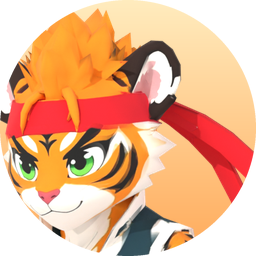
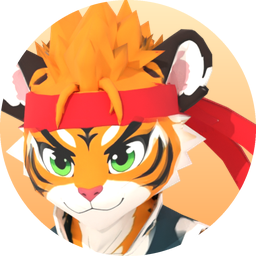
HUD: centred portrait, thin gold ring, capsule bars on a soft plate
Raja's badge re-rendered facing the camera more and cropped to his whole
face (it showed half of it), in a thin gold ring with a dark edge. The
bars are true capsules (a thin dark edge, a white rim, a dark track, a
round-ended fill with a shine along its top) whose fill shortens instead
of squashing; a soft dark plate behind the name and bars.

Claude-Session: https://claude.ai/code/session_01K37uY7EN2xbFgihJKgCj46

diff --git a/Assets/Scripts/Cloudborne/CbHud.cs b/Assets/Scripts/Cloudborne/CbHud.cs
@@ -87,18 +87,21 @@ namespace Cloudborne
             // a round badge with Raja's face (rendered from his model; drawn in code if it's missing), a gold ring, a
             // drop shadow; beside it his name and two glossy bars, like a storybook platformer's
             var status = UIKit.Rect(play, "status", new Vector2(0, 1), new Vector2(0, 1), new Vector2(12, -10), new Vector2(320, 70));
-            var portrait = UIKit.Rect(status, "portrait", new Vector2(0, 1), new Vector2(0, 1), Vector2.zero, new Vector2(66, 66));
-            UIKit.Image(UIKit.Rect(portrait, "shadow", new Vector2(0.5f, 0.5f), new Vector2(0.5f, 0.5f), new Vector2(0, -3), new Vector2(66, 66)), UIKit.Circle, Ink);
+            // a soft dark plate behind the name and bars, so they read over the busy jungle
+            var plate = UIKit.Rect(status, "plate", new Vector2(0, 1), new Vector2(0, 1), new Vector2(30, -8), new Vector2(268, 54));
+            Pill(plate, new Color(0.05f, 0.07f, 0.06f, 0.42f));
+            // the badge: Raja's face (rendered from his model) in a thin gold ring with a dark edge
+            var portrait = UIKit.Rect(status, "portrait", new Vector2(0, 1), new Vector2(0, 1), Vector2.zero, new Vector2(68, 68));
+            UIKit.Image(UIKit.Rect(portrait, "edge", new Vector2(0.5f, 0.5f), new Vector2(0.5f, 0.5f), new Vector2(0, -1), new Vector2(72, 72)), UIKit.Circle, Ink);
             UIKit.Image(portrait, UIKit.Circle, Gold);
-            var face = UIKit.Rect(portrait, "face", new Vector2(0.5f, 0.5f), new Vector2(0.5f, 0.5f), Vector2.zero, new Vector2(58, 58));
+            var face = UIKit.Rect(portrait, "face", new Vector2(0.5f, 0.5f), new Vector2(0.5f, 0.5f), Vector2.zero, new Vector2(62, 62));
             var faceImg = face.gameObject.AddComponent<RawImage>();
             var painted = Resources.Load<Texture2D>("Cloudborne/Hud/RajaPortrait");
             faceImg.texture = painted != null ? painted : Portrait();
             faceImg.raycastTarget = false;
-            UIKit.Image(UIKit.Rect(portrait, "ring", new Vector2(0.5f, 0.5f), new Vector2(0.5f, 0.5f), Vector2.zero, new Vector2(66, 66)), UIKit.Ring, Gold);
-            UIKit.Label(status, "RAJA", 19, Paper, new Vector2(0, 1), new Vector2(0, 1), new Vector2(76, -2), new Vector2(120, 22), TextAnchor.MiddleLeft, true);
-            hpFill = Bar(status, new Vector2(76, -26), new Vector2(220, 16), CbArt.Hex("#5ee07e"), out _);
-            kiFill = Bar(status, new Vector2(76, -47), new Vector2(176, 11), FireCol, out kiFrame);
+            UIKit.Label(status, "RAJA", 18, Paper, new Vector2(0, 1), new Vector2(0, 1), new Vector2(80, -6), new Vector2(120, 20), TextAnchor.MiddleLeft, true);
+            hpFill = Bar(status, new Vector2(80, -29), new Vector2(206, 13), CbArt.Hex("#5ee07e"), out _);
+            kiFill = Bar(status, new Vector2(80, -48), new Vector2(160, 9), FireCol, out kiFrame);
 
             // stage title, wave, tip
             UIKit.Label(play, "STAGE 1-1 · THE JUNGLE GATE", 11, new Color(1, 1, 1, 0.9f), new Vector2(0.5f, 1), new Vector2(0.5f, 1), new Vector2(0, -12), new Vector2(320, 16), TextAnchor.MiddleCenter);
@@ -197,39 +200,65 @@ namespace Cloudborne
         /// A glossy bar: a dark outline and shadow, a white rim, a dark track, the fill lighter at its top with a shine
         /// along it. The fill's x scale is how full it is.
         /// </summary>
+        /// <summary>
+        /// A capsule bar: a thin dark edge, a white rim, a dark track, and the fill with round ends and a shine along
+        /// its top. How full it is sets the fill's width (SetFill), so its ends stay round.
+        /// </summary>
         Image Bar(RectTransform parent, Vector2 pos, Vector2 size, Color color, out Image frame)
         {
             var rt = UIKit.Rect(parent, "bar", new Vector2(0, 1), new Vector2(0, 1), pos, size);
-            UIKit.Image(UIKit.Rect(rt, "shadow", new Vector2(0.5f, 0.5f), new Vector2(0.5f, 0.5f), new Vector2(0, -2), size + new Vector2(4, 4)), UIKit.RoundedSmall, Ink);
-            frame = UIKit.Image(rt, UIKit.RoundedSmall, Paper);
-            var inner = UIKit.Rect(rt, "bg", new Vector2(0.5f, 0.5f), new Vector2(0.5f, 0.5f), Vector2.zero, size - new Vector2(4, 4));
-            UIKit.Image(inner, UIKit.RoundedSmall, new Color(0.1f, 0.08f, 0.12f, 0.9f));
-            var fill = UIKit.Rect(inner, "fill", new Vector2(0, 0.5f), new Vector2(0, 0.5f), Vector2.zero, size - new Vector2(4, 4));
-            var img = UIKit.Image(fill, Gloss, color);
-            var shine = UIKit.Rect(fill, "shine", new Vector2(0, 1), new Vector2(0, 1), new Vector2(3, -1), new Vector2(size.x - 10, Mathf.Max(2, size.y * 0.22f)));
-            UIKit.Image(shine, UIKit.RoundedSmall, new Color(1, 1, 1, 0.45f));
+            Pill(UIKit.Rect(rt, "edge", new Vector2(0.5f, 0.5f), new Vector2(0.5f, 0.5f), new Vector2(0, -0.5f), size + new Vector2(5, 5)), Ink);
+            frame = Pill(rt, Paper);
+            var track = UIKit.Rect(rt, "track", new Vector2(0.5f, 0.5f), new Vector2(0.5f, 0.5f), Vector2.zero, size - new Vector2(3, 3));
+            Pill(track, new Color(0.1f, 0.08f, 0.13f, 1f));
+            var fill = UIKit.Rect(track, "fill", new Vector2(0, 0.5f), new Vector2(0, 0.5f), Vector2.zero, size - new Vector2(3, 3));
+            var img = Pill(fill, color);
+            // the shine: a pale stripe along the fill's top, as long as the fill
+            var shine = UIKit.Rect(fill, "shine", new Vector2(0, 1), new Vector2(0, 1), Vector2.zero, Vector2.zero);
+            shine.anchorMin = new Vector2(0, 1); shine.anchorMax = new Vector2(1, 1); shine.pivot = new Vector2(0.5f, 1);
+            float sh = Mathf.Max(2, (size.y - 3) * 0.36f);
+            shine.offsetMin = new Vector2(sh * 0.6f, -sh - 1.2f); shine.offsetMax = new Vector2(-sh * 0.6f, -1.2f);
+            Pill(shine, new Color(1, 1, 1, 0.5f), sh);
             return img;
         }
 
-        static Sprite gloss;
-
-        /// <summary>A bar's fill: white at the top, a little darker at the bottom (tinted by the bar's colour).</summary>
-        static Sprite Gloss
+        /// <summary>How full a bar is (0 to 1): its fill's width, so the round ends keep their shape.</summary>
+        static void SetFill(Image fill, float amount)
         {
-            get
+            amount = Mathf.Clamp01(amount);
+            var rt = fill.rectTransform;
+            float full = ((RectTransform)rt.parent).sizeDelta.x;
+            rt.sizeDelta = new Vector2(Mathf.Max(rt.sizeDelta.y, full * amount), rt.sizeDelta.y);
+            fill.enabled = amount > 0.005f;
+        }
+
+        static Sprite pill;
+
+        /// <summary>A capsule: round ends whatever its length, for bars and their parts.</summary>
+        static Image Pill(RectTransform rt, Color color, float height = 0)
+        {
+            if (pill == null)
             {
-                if (gloss != null) return gloss;
-                const int H = 16;
-                var t = new Texture2D(2, H, TextureFormat.RGBA32, false) { wrapMode = TextureWrapMode.Clamp, filterMode = FilterMode.Bilinear };
-                for (int y = 0; y < H; y++)
-                {
-                    float v = y / (H - 1f);
-                    var c = Color.Lerp(new Color(0.7f, 0.7f, 0.72f), Color.white, v);
-                    t.SetPixel(0, y, c); t.SetPixel(1, y, c);
-                }
+                const int S = 64;
+                var t = new Texture2D(S, S, TextureFormat.RGBA32, false) { wrapMode = TextureWrapMode.Clamp, filterMode = FilterMode.Bilinear };
+                for (int y = 0; y < S; y++)
+                    for (int x = 0; x < S; x++)
+                    {
+                        float dx = Mathf.Max(Mathf.Abs(x + 0.5f - S / 2f) - 0.01f, 0), dy = Mathf.Abs(y + 0.5f - S / 2f);
+                        t.SetPixel(x, y, new Color(1, 1, 1, Mathf.Clamp01(S / 2f - Mathf.Sqrt(dx * dx + dy * dy) + 0.5f)));
+                    }
                 t.Apply();
-                return gloss = Sprite.Create(t, new Rect(0, 0, 2, H), new Vector2(0.5f, 0.5f));
+                pill = Sprite.Create(t, new Rect(0, 0, S, S), new Vector2(0.5f, 0.5f), 100, 0, SpriteMeshType.FullRect, new Vector4(S / 2f - 1, S / 2f - 1, S / 2f - 1, S / 2f - 1));
             }
+            var img = rt.gameObject.AddComponent<Image>();
+            img.sprite = pill;
+            img.type = Image.Type.Sliced;
+            img.color = color;
+            img.raycastTarget = false;
+            // the ends' radius: half the height
+            float h = height > 0 ? height : rt.sizeDelta.y;
+            img.pixelsPerUnitMultiplier = 64f / Mathf.Max(1f, h);
+            return img;
         }
 
         Pad AddPad(string id, string label, Vector2 centre, float size, Color color, int font)
@@ -356,8 +385,8 @@ namespace Cloudborne
 
         public void SetBars(float hp, float ki)
         {
-            hpFill.rectTransform.localScale = new Vector3(Mathf.Clamp01(hp / 100f), 1, 1);
-            kiFill.rectTransform.localScale = new Vector3(Mathf.Clamp01(ki / 100f), 1, 1);
+            SetFill(hpFill, hp / 100f);
+            SetFill(kiFill, ki / 100f);
             bool ready = ki >= 50 && CbHero.SpecialUnlocked;
             bool fire = CbHero.FireAwake;
             if (kiPad.label.text != (fire ? "FIRE" : "KI"))
